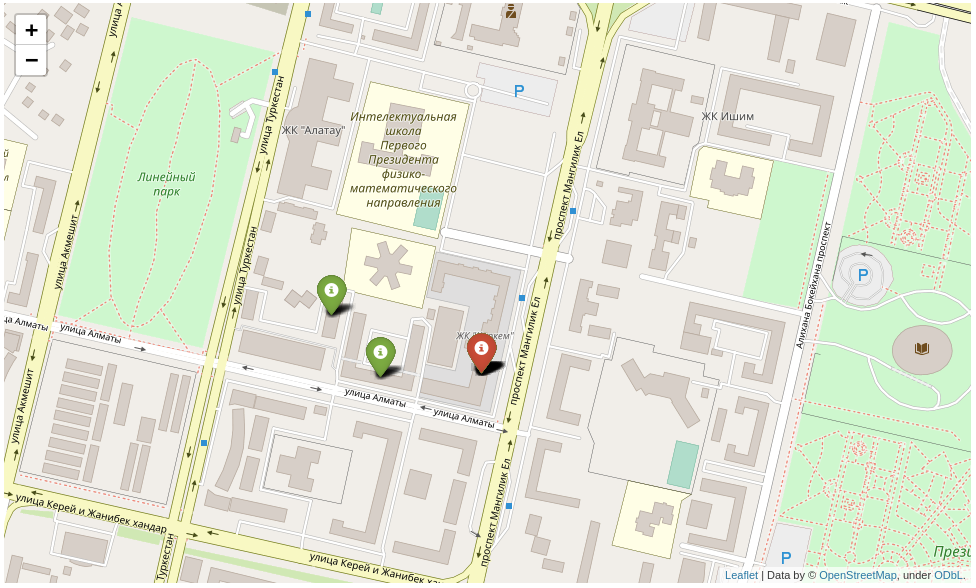
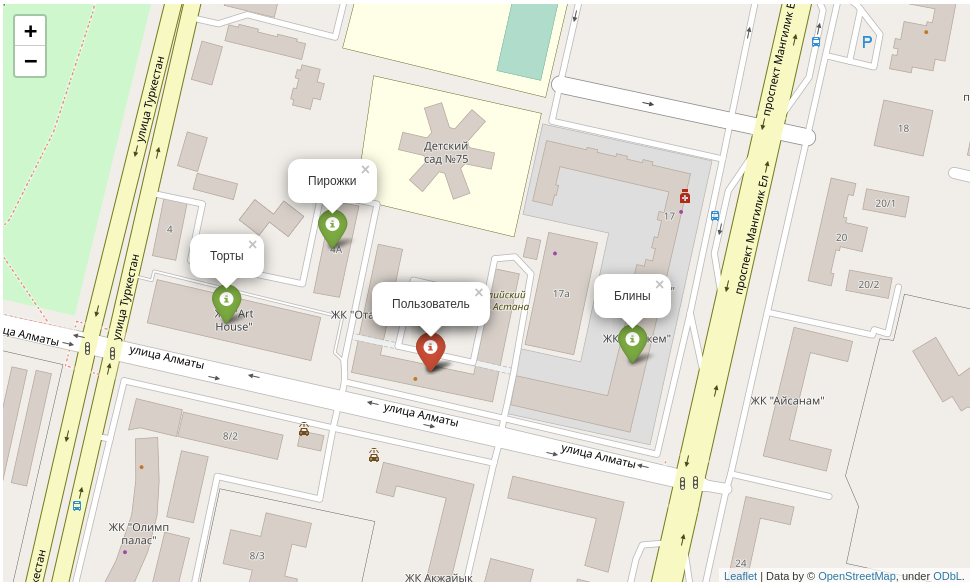
lon lat correct

diff --git a/main.py b/main.py
@@ -1,16 +1,8 @@
 import psycopg2
 
-samples = [
-    ('Синнабоны', 'Выпечка', 500, 51.116041, 71.433403),
-    ('Торты', 'Выпечка', 1200, 51.116041, 71.433403),
-    ('Pancakes', 'Выпечка', 200, 51.116041, 71.433403),
-    ('Булочки', 'Выпечка', 250, 51.11599, 71.431238),
-    ('Пирожки', 'Выпечка', 200, 51.116821, 71.430187)
-]
-
 
 class ManagingDatabase:
-    def __init__(self, searcher=False):
+    def __init__(self):
         # connect to Database
         connection_string = "host='localhost' dbname='gis' user='docker' password='docker' port=35432"
         try:
@@ -19,10 +11,6 @@ class ManagingDatabase:
             print('connected to Database!')
         except Exception as ex:
             print('could not connect to database!', {"exception": ex})
-        # Fill Database with sample data
-        if searcher:
-            for sample in samples:
-                self.insert_data(sample[0], sample[1], sample[2], sample[3], sample[4])
 
     def sql_execution(self, command, to_fetch=True):
         try:
@@ -67,13 +55,13 @@ class ManagingDatabase:
         return self.sql_execution(sql)
 
 
-if __name__=='__main__':
+if __name__ == '__main__':
     search = ManagingDatabase()
     # search.insert_data('Синнабоны', 'Выпечка', 500, 51.116041, 71.433403)
     category = 'Выпечка'
     price = 500
     radius = 500
-    user_lat = 51.116041
-    user_lon = 71.433403
+    user_lat = 51.115990
+    user_lon = 71.431238
     res = search.request(category, price, user_lat, user_lon, radius)
     print(res)

diff --git a/migrations.py b/migrations.py
@@ -1,0 +1,13 @@
+from main import ManagingDatabase
+
+samples = [
+    ('Торты', 'Выпечка', 700, 51.116312, 71.429046),
+    ('Блины', 'Выпечка', 200, 51.116041, 71.433403),
+    ('Синнабоны', 'Выпечка', 500, 51.114282, 71.421859),
+    ('Пирожки', 'Выпечка', 200, 51.116821, 71.430187),
+]
+
+manager = ManagingDatabase()
+for sample in samples:
+    manager.insert_data(sample[0], sample[1], sample[2], sample[3], sample[4])
+print("Initial Data Added!")

diff --git a/searcher.py b/searcher.py
@@ -1,11 +1,11 @@
 from main import ManagingDatabase
 
-manager = ManagingDatabase(searcher=True)
+manager = ManagingDatabase()
 
 category = 'Выпечка'
-price = 500
+price = 1000
 radius = 500
-user_lat = 51.116041
-user_lon = 71.433403
+user_lat = 51.115990
+user_lon = 71.431238
 output = manager.request(category, price, user_lat, user_lon, radius)
 print(output)

diff --git a/README.md b/README.md
@@ -34,8 +34,8 @@ manager = ManagingDatabase()
 service = 'Синнабоны'
 category = 'Выпечка'
 price = 500
-service_lat = 51.116041
-service_lon = 71.433403
+service_lat = 51.115990
+service_lon = 71.431238
 manager.insert_data(service, category, price, service_lat, service_lon)
 ```
 
@@ -49,13 +49,13 @@ run the following:
 ```python
 from main import ManagingDatabase
 
-manager = ManagingDatabase(searcher=True)
+manager = ManagingDatabase()
 
 category = 'Выпечка'
-price = 500
-radius = 500
-user_lat = 51.116041
-user_lon = 71.433403
+price = 1000        # kzt
+radius = 500        # meters
+user_lat = 51.115990        # user latitude
+user_lon = 71.431238        # user longitude
 output = manager.request(category, price, user_lat, user_lon, radius)
 ```
 Output:
